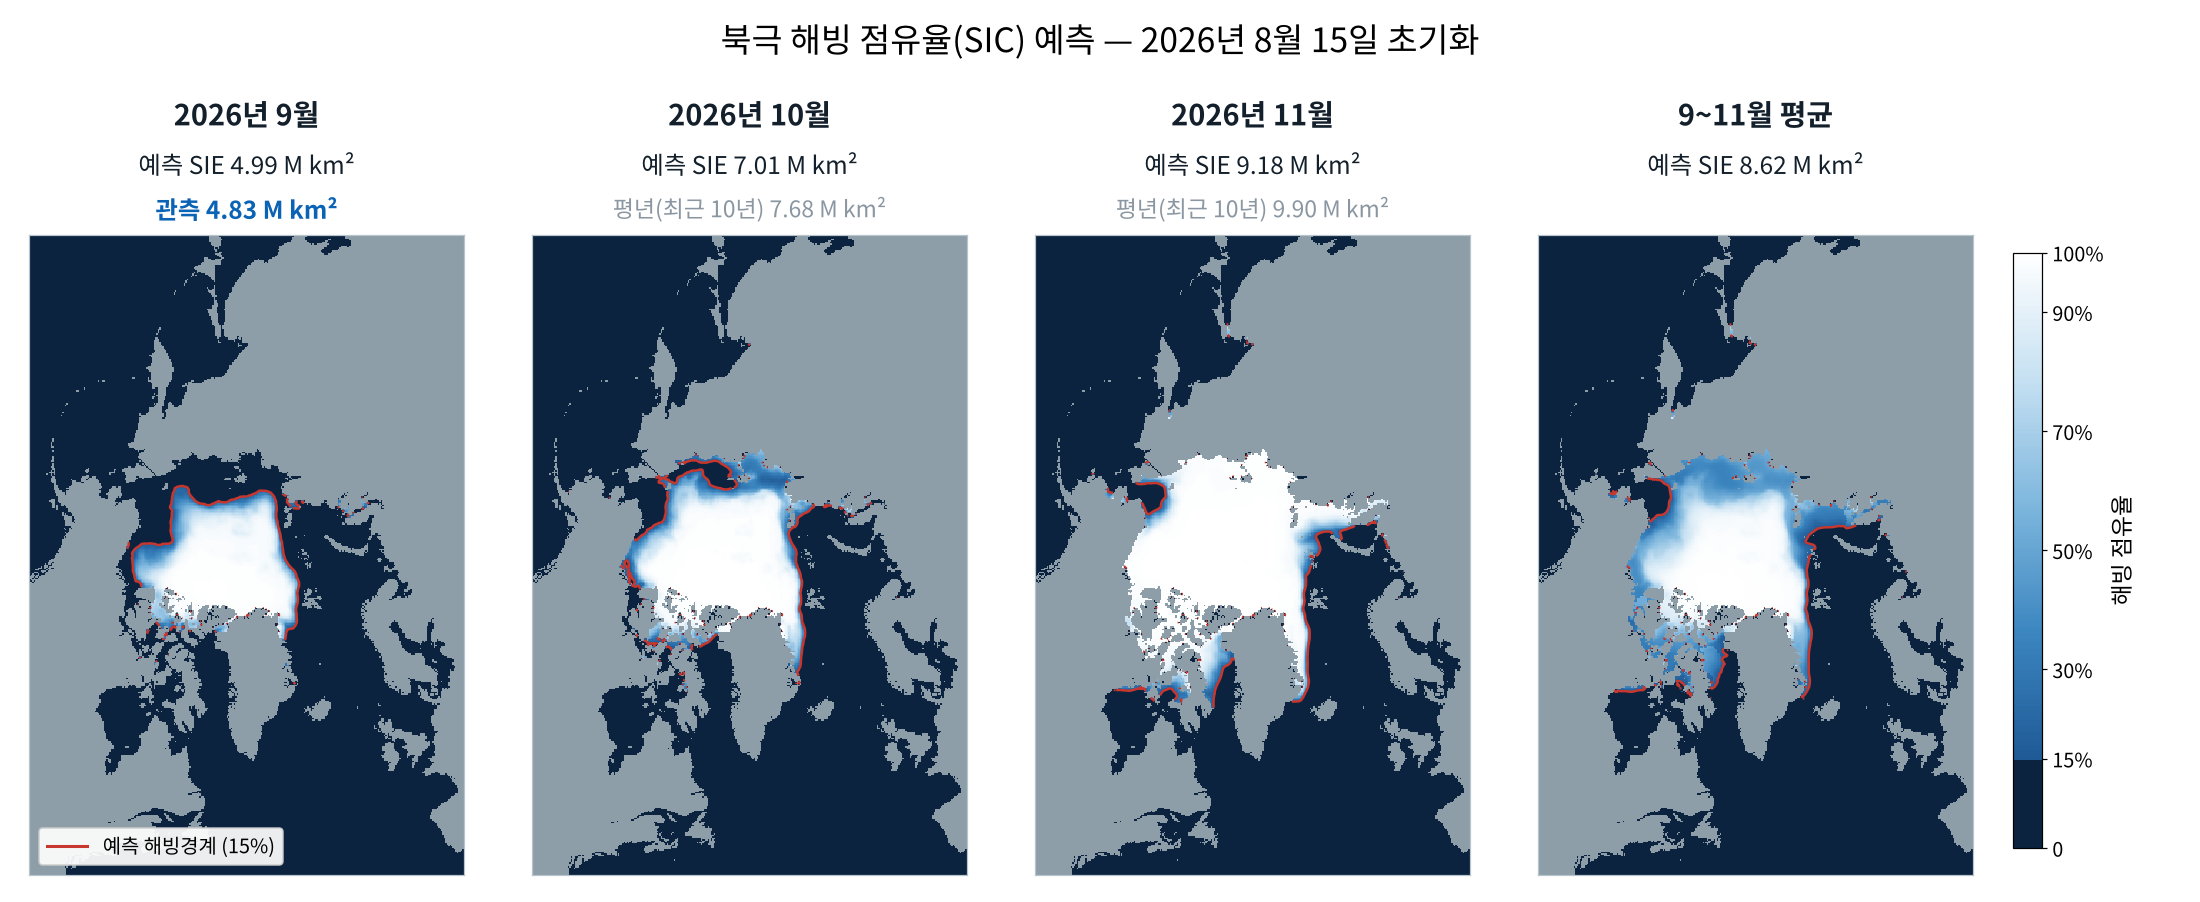
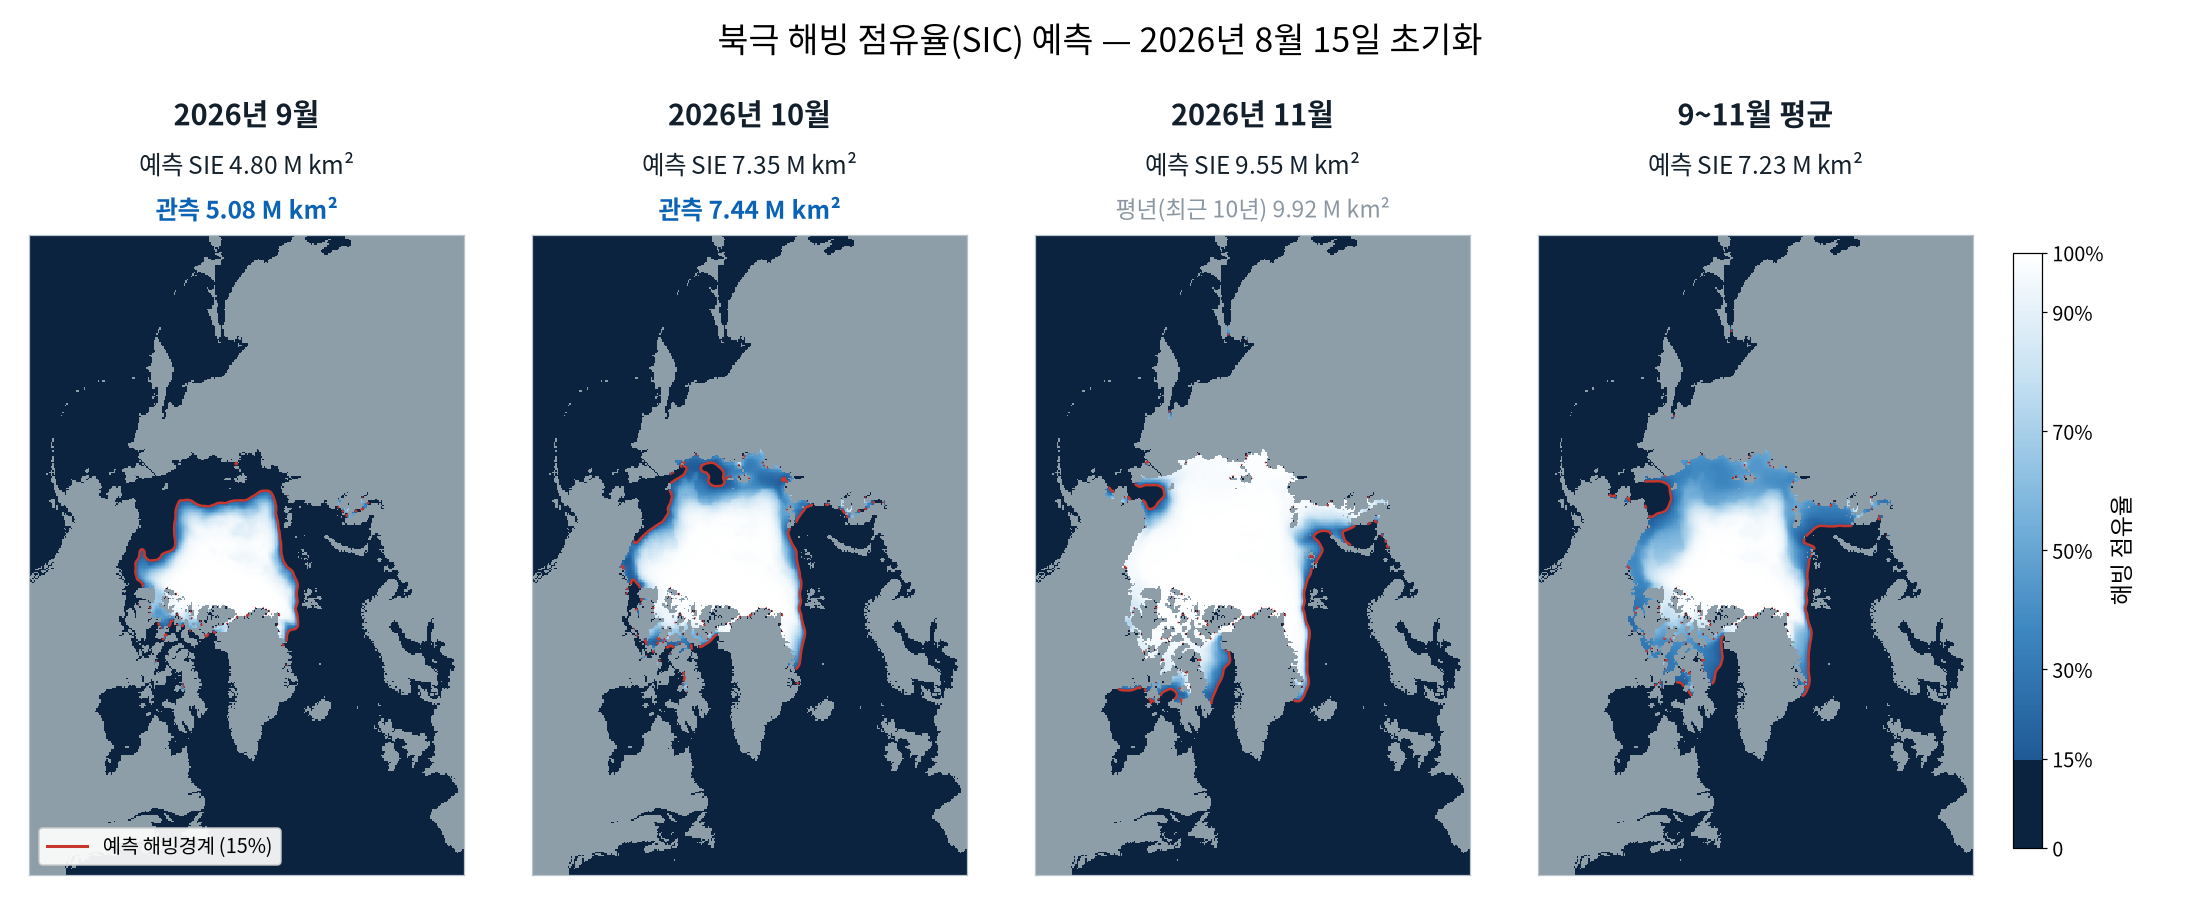
KSI 결과로 교체: 2026년 1–11월 발표 (11월 발표 추가)
- 예측을 KOPRI-PKNU 해빙 예측 시스템(KSI) 결과로 바꿈. 원본 폴더는 옆의
  ksi-sea-ice-forecasting/ (KSI_SIC_YYYYMM.nc, reference_sie.csv)
- 2026년 1–10월 발표는 같은 방법으로 나중에 다시 계산한 것(페이지에 표시),
  11월 발표(2026년 12월–2027년 2월)는 2026-11-25에 계산
- build_site.py: KSI_SIC_*.nc 를 읽고, SIE 는 파일 속성(실제 칸 면적)을 쓰며,
  다시 계산한 발표를 표시
- template.html: 방법 설명, SIE 설명, 다시 계산한 발표 안내 문구
- README: 매달 올리는 법과 SIE 정의
- 그림 글꼴 Noto Sans CJK KR

diff --git a/index.html b/index.html
@@ -68,7 +68,7 @@
       "alternateName": "Arctic sea ice concentration monthly forecast",
       "description": "북극 해빙 농도(SIC)를 NSIDC 극사영 북반구 25 km 격자에서 매달 예측한 결과입니다. 그 달 15일까지의 자료로 다음 세 달 각각의 월평균과 세 달 평균을 산출해 지도와 해빙면적 그래프로 공개합니다. 연구 산출물이며 공식 예보가 아닙니다.",
       "url": "https://arctic-seaice.github.io/",
-      "dateModified": "2026-10-27",
+      "dateModified": "2026-11-25",
       "inLanguage": "ko",
       "license": "https://creativecommons.org/licenses/by/4.0/",
       "isAccessibleForFree": true,
@@ -85,7 +85,7 @@
       "variableMeasured": [
         { "@type": "PropertyValue", "name": "해빙 농도 (sea ice concentration)", "unitText": "1" }
       ],
-      "measurementTechnique": "AI 앙상블 (AnchorNet · SimVP · 파운데이션 모델) 월별 해빙 농도 예측",
+      "measurementTechnique": "AI 앙상블 (ConvNeXt · MogaNet 각 5시드) + 감쇠 지속 통계 지도의 가중 결합, 분위 사상 보정 — 월별 해빙 농도 예측",
       "isBasedOn": [
         { "@type": "Dataset", "name": "NOAA/NSIDC Sea Ice Concentration CDR (G02202 v6)", "url": "https://nsidc.org/data/g02202" },
         { "@type": "Dataset", "name": "ECMWF ERA5 (Copernicus Climate Change Service)", "url": "https://cds.climate.copernicus.eu/" }
@@ -135,8 +135,8 @@
       </div>
     </div>
     <figure class="fig">
-      <img id="figimg" src="figs/SIC_202610.png?v=1792988043" alt="북극 해빙 농도 예측 지도">
-      <figcaption>빨간 선은 예측 해빙경계(해빙 농도 15%), SIE는 해빙 농도 15% 이상 격자의 면적입니다.
+      <img id="figimg" src="figs/SIC_202611.png?v=1795583137" alt="북극 해빙 농도 예측 지도">
+      <figcaption>빨간 선은 예측 해빙경계(해빙 농도 15%), SIE는 해빙 농도 15% 이상 격자의 실제 면적 합입니다.
         각 지도 위 셋째 줄은 <b class="obs">관측</b>(이미 관측된 달) 또는 <span class="clim">최근 10년 평년</span>(아직 관측 전인 달)의 면적입니다. 키보드 ← → 로도 넘길 수 있습니다.</figcaption>
     </figure>
 
@@ -151,7 +151,8 @@
         <span class="ck"><i class="ln dash"></i>최근 10년 평년</span>
       </div>
     </div>
-    <p class="note">연구 산출물이며, 안전이 걸린 판단의 근거로 쓰도록 만든 공식 예보가 아닙니다. 마지막 갱신 2026-10-27.</p>
+    <p class="note">2026년 1–10월 발표는 같은 방법으로 나중에 다시 계산한 것이고, 2026년 11월 발표부터 발표 시점에 만든 예보입니다.
+      연구 산출물이며, 안전이 걸린 판단의 근거로 쓰도록 만든 공식 예보가 아닙니다. 마지막 갱신 2026-11-25.</p>
   </div>
 </section>
 
@@ -179,7 +180,7 @@
   </div>
 </footer>
 <script>
-const D = {"issues":[{"origin":"2026-10","cutoff":"15","fig":"figs/SIC_202610.png?v=1792988043","targets":["2026-11","2026-12","2027-01"],"sie":[9.307,11.764,13.343]},{"origin":"2026-09","cutoff":"15","fig":"figs/SIC_202609.png?v=1792988043","targets":["2026-10","2026-11","2026-12"],"sie":[7.085,9.068,11.768]},{"origin":"2026-08","cutoff":"15","fig":"figs/SIC_202608.png?v=1792988043","targets":["2026-09","2026-10","2026-11"],"sie":[4.993,7.011,9.183]},{"origin":"2026-07","cutoff":"15","fig":"figs/SIC_202607.png?v=1792988043","targets":["2026-08","2026-09","2026-10"],"sie":[5.862,5.038,7.397]},{"origin":"2026-06","cutoff":"15","fig":"figs/SIC_202606.png?v=1792988043","targets":["2026-07","2026-08","2026-09"],"sie":[8.262,5.489,4.842]},{"origin":"2026-05","cutoff":"15","fig":"figs/SIC_202605.png?v=1792988043","targets":["2026-06","2026-07","2026-08"],"sie":[10.744,7.761,5.218]},{"origin":"2026-04","cutoff":"15","fig":"figs/SIC_202604.png?v=1792988043","targets":["2026-05","2026-06","2026-07"],"sie":[12.265,11.001,7.907]},{"origin":"2026-03","cutoff":"15","fig":"figs/SIC_202603.png?v=1792988043","targets":["2026-04","2026-05","2026-06"],"sie":[13.909,12.504,11.006]},{"origin":"2026-02","cutoff":"15","fig":"figs/SIC_202602.png?v=1792988043","targets":["2026-03","2026-04","2026-05"],"sie":[14.668,13.831,12.429]},{"origin":"2026-01","cutoff":"15","fig":"figs/SIC_202601.png?v=1792988043","targets":["2026-02","2026-03","2026-04"],"sie":[14.641,14.847,13.935]}],"ref":{"2026-01":{"obs":13.3225,"clim10":14.005},"2026-02":{"obs":14.3562,"clim10":14.9887},"2026-03":{"obs":14.4419,"clim10":15.2656},"2026-04":{"obs":13.6594,"clim10":14.205},"2026-05":{"obs":12.17,"clim10":12.7706},"2026-06":{"obs":10.6294,"clim10":11.515},"2026-07":{"obs":8.0919,"clim10":8.6731},"2026-08":{"obs":5.6963,"clim10":6.0006},"2026-09":{"obs":4.8256,"clim10":5.0131},"2026-10":{"obs":null,"clim10":7.6787},"2026-11":{"obs":null,"clim10":9.9006},"2026-12":{"obs":null,"clim10":12.45},"2027-01":{"obs":null,"clim10":13.9887}}};
+const D = {"issues":[{"origin":"2026-11","cutoff":"15","fig":"figs/SIC_202611.png?v=1795583137","targets":["2026-12","2027-01","2027-02"],"sie":[11.977,13.536,14.402],"retro":false},{"origin":"2026-10","cutoff":"15","fig":"figs/SIC_202610.png?v=1795582410","targets":["2026-11","2026-12","2027-01"],"sie":[9.684,12.063,13.53],"retro":true},{"origin":"2026-09","cutoff":"15","fig":"figs/SIC_202609.png?v=1795582186","targets":["2026-10","2026-11","2026-12"],"sie":[7.615,9.614,12.073],"retro":true},{"origin":"2026-08","cutoff":"15","fig":"figs/SIC_202608.png?v=1795581964","targets":["2026-09","2026-10","2026-11"],"sie":[4.802,7.348,9.55],"retro":true},{"origin":"2026-07","cutoff":"15","fig":"figs/SIC_202607.png?v=1795581743","targets":["2026-08","2026-09","2026-10"],"sie":[6.182,5.328,7.665],"retro":true},{"origin":"2026-06","cutoff":"15","fig":"figs/SIC_202606.png?v=1795581523","targets":["2026-07","2026-08","2026-09"],"sie":[8.521,6.209,5.323],"retro":true},{"origin":"2026-05","cutoff":"15","fig":"figs/SIC_202605.png?v=1795581305","targets":["2026-06","2026-07","2026-08"],"sie":[11.013,8.368,5.63],"retro":true},{"origin":"2026-04","cutoff":"15","fig":"figs/SIC_202604.png?v=1795581088","targets":["2026-05","2026-06","2026-07"],"sie":[12.444,11.105,8.259],"retro":true},{"origin":"2026-03","cutoff":"15","fig":"figs/SIC_202603.png?v=1795580872","targets":["2026-04","2026-05","2026-06"],"sie":[13.945,12.516,11.142],"retro":true},{"origin":"2026-02","cutoff":"15","fig":"figs/SIC_202602.png?v=1795580664","targets":["2026-03","2026-04","2026-05"],"sie":[14.559,13.89,12.623],"retro":true},{"origin":"2026-01","cutoff":"15","fig":"figs/SIC_202601.png?v=1795580457","targets":["2026-02","2026-03","2026-04"],"sie":[14.505,14.608,13.853],"retro":true}],"ref":{"2026-01":{"obs":13.4301,"clim10":13.8174},"2026-02":{"obs":14.3925,"clim10":14.5679},"2026-03":{"obs":14.481,"clim10":14.7882},"2026-04":{"obs":13.772,"clim10":13.9814},"2026-05":{"obs":12.3862,"clim10":12.7318},"2026-06":{"obs":10.8941,"clim10":11.107},"2026-07":{"obs":8.417,"clim10":8.5483},"2026-08":{"obs":6.0107,"clim10":5.7677},"2026-09":{"obs":5.0757,"clim10":4.8402},"2026-10":{"obs":7.4385,"clim10":7.1732},"2026-11":{"obs":null,"clim10":9.9212},"2026-12":{"obs":null,"clim10":12.3487},"2027-01":{"obs":null,"clim10":13.7827},"2027-02":{"obs":null,"clim10":14.5601}}};
 (function(){
   const I = D.issues, R = D.ref;              // I[0] 이 최신
   const sel = document.getElementById('sel'), img = document.getElementById('figimg');
@@ -193,7 +194,8 @@ const D = {"issues":[{"origin":"2026-10","cutoff":"15","fig":"figs/SIC_202610.pn
     sel.value = cur; img.src = it.fig; img.alt = lab(it.origin) + ' 발표 북극 해빙 농도 예측 지도';
     document.getElementById('ititle').textContent = lab(it.origin) + ' 발표' ;
     document.getElementById('isub').textContent =
-      `${lab(it.origin)} ${it.cutoff}일까지의 자료로 산출한 ${lab(it.targets[0])} ~ ${lab(it.targets[2])} 예측`;
+      `${lab(it.origin)} ${it.cutoff}일까지의 자료로 산출한 ${lab(it.targets[0])} ~ ${lab(it.targets[2])} 예측` +
+      (it.retro ? ' (그 달에 낸 예보가 아니라 나중에 같은 방법으로 다시 계산한 것)' : '');
     document.getElementById('prev').disabled = cur === I.length-1;   // ◀ = 과거
     document.getElementById('next').disabled = cur === 0;
     chart();

diff --git a/tools/template.html b/tools/template.html
@@ -85,7 +85,7 @@
       "variableMeasured": [
         { "@type": "PropertyValue", "name": "해빙 농도 (sea ice concentration)", "unitText": "1" }
       ],
-      "measurementTechnique": "AI 앙상블 (AnchorNet · SimVP · 파운데이션 모델) 월별 해빙 농도 예측",
+      "measurementTechnique": "AI 앙상블 (ConvNeXt · MogaNet 각 5시드) + 감쇠 지속 통계 지도의 가중 결합, 분위 사상 보정 — 월별 해빙 농도 예측",
       "isBasedOn": [
         { "@type": "Dataset", "name": "NOAA/NSIDC Sea Ice Concentration CDR (G02202 v6)", "url": "https://nsidc.org/data/g02202" },
         { "@type": "Dataset", "name": "ECMWF ERA5 (Copernicus Climate Change Service)", "url": "https://cds.climate.copernicus.eu/" }
@@ -136,7 +136,7 @@
     </div>
     <figure class="fig">
       <img id="figimg" src="{{LATEST_FIG}}" alt="북극 해빙 농도 예측 지도">
-      <figcaption>빨간 선은 예측 해빙경계(해빙 농도 15%), SIE는 해빙 농도 15% 이상 격자의 면적입니다.
+      <figcaption>빨간 선은 예측 해빙경계(해빙 농도 15%), SIE는 해빙 농도 15% 이상 격자의 실제 면적 합입니다.
         각 지도 위 셋째 줄은 <b class="obs">관측</b>(이미 관측된 달) 또는 <span class="clim">최근 10년 평년</span>(아직 관측 전인 달)의 면적입니다. 키보드 ← → 로도 넘길 수 있습니다.</figcaption>
     </figure>
 
@@ -151,7 +151,8 @@
         <span class="ck"><i class="ln dash"></i>최근 10년 평년</span>
       </div>
     </div>
-    <p class="note">연구 산출물이며, 안전이 걸린 판단의 근거로 쓰도록 만든 공식 예보가 아닙니다. 마지막 갱신 {{UPDATED}}.</p>
+    <p class="note">2026년 1–10월 발표는 같은 방법으로 나중에 다시 계산한 것이고, 2026년 11월 발표부터 발표 시점에 만든 예보입니다.
+      연구 산출물이며, 안전이 걸린 판단의 근거로 쓰도록 만든 공식 예보가 아닙니다. 마지막 갱신 {{UPDATED}}.</p>
   </div>
 </section>
 
@@ -193,7 +194,8 @@ const D = {{DATA}};
     sel.value = cur; img.src = it.fig; img.alt = lab(it.origin) + ' 발표 북극 해빙 농도 예측 지도';
     document.getElementById('ititle').textContent = lab(it.origin) + ' 발표' ;
     document.getElementById('isub').textContent =
-      `${lab(it.origin)} ${it.cutoff}일까지의 자료로 산출한 ${lab(it.targets[0])} ~ ${lab(it.targets[2])} 예측`;
+      `${lab(it.origin)} ${it.cutoff}일까지의 자료로 산출한 ${lab(it.targets[0])} ~ ${lab(it.targets[2])} 예측` +
+      (it.retro ? ' (그 달에 낸 예보가 아니라 나중에 같은 방법으로 다시 계산한 것)' : '');
     document.getElementById('prev').disabled = cur === I.length-1;   // ◀ = 과거
     document.getElementById('next').disabled = cur === 0;
     chart();

diff --git a/tools/build_site.py b/tools/build_site.py
@@ -1,15 +1,16 @@
 #!/usr/bin/env python3
 """북극 해빙 예측 nc → arctic-seaice.github.io 변환기.
 
-sea-ice-forecasting 폴더에 PKNU_AI_SIC_YYYYMM.nc 를 넣고 이 스크립트를 한 번 돌리면
+ksi-sea-ice-forecasting 폴더에 KSI_SIC_YYYYMM.nc 를 넣고 이 스크립트를 한 번 돌리면
+(파일은 예보 시스템 저장소의 scripts/site_ksi_products.py 가 만든다)
   1) 발표마다 4패널 그림(다음 3개월 + 3개월 평균)을 figs/SIC_YYYYMM.png 로 만들고
   2) index.html(발표를 넘겨 보는 그림 + 해빙면적 예측 vs 관측 그래프)과 sitemap.xml 을 다시 쓴다.
 
 이미 만든 그림은 nc 가 바뀌지 않았으면 건너뛴다(--force 로 전부 다시).
 
 사용법 (사이트 저장소 폴더에서):
-    python3 tools/build_site.py                       # 기본: ../sea-ice-forecasting
-    python3 tools/build_site.py --src /경로/sea-ice-forecasting
+    python3 tools/build_site.py                       # 기본: ../ksi-sea-ice-forecasting
+    python3 tools/build_site.py --src /경로/ksi-sea-ice-forecasting
 필요 패키지: numpy, xarray, netCDF4, matplotlib, pillow
 """
 from __future__ import annotations
@@ -35,7 +36,7 @@ SITE = Path(__file__).resolve().parent.parent
 TOOLS = SITE / "tools"
 FIGS = SITE / "figs"
 URL = "https://arctic-seaice.github.io/"
-NC_RE = re.compile(r"PKNU_AI_SIC_(\d{4})(\d{2})\.nc$")
+NC_RE = re.compile(r"KSI_SIC_(\d{4})(\d{2})\.nc$")
 
 CELL_KM2 = 25.0 * 25.0
 THRESH = 0.15
@@ -81,6 +82,7 @@ def north_up(a: np.ndarray, y: np.ndarray) -> np.ndarray:
 
 
 def sie(field: np.ndarray) -> float:
+    """nc 에 SIE 속성이 없을 때만 쓰는 대체값: 15% 이상 칸 수 x 공칭 625 km²."""
     return float((np.nan_to_num(field) >= THRESH).sum() * CELL_KM2 / 1e6)
 
 
@@ -94,9 +96,15 @@ def load(nc: Path) -> dict:
     cutoff = str(attrs.get("sic_cutoff_days", "1~15")).split("~")[-1].strip() or "15"
     hist = str(attrs.get("history", ""))[:10]
     targets = [add_month(oy, om, k) for k in (1, 2, 3)]
+    # SIE: KSI 파일의 속성(고정 바다, 실제 칸 면적, 3M = 세 달 SIE 평균)을 그대로 쓴다. 없으면 공칭 면적으로 잰다
+    s = json.loads(attrs["sie_10e6km2"]) if "sie_10e6km2" in attrs else None
+    sies = [s[f"L{k}"] for k in (1, 2, 3)] if s else [sie(sic[i]) for i in range(3)]
+    sie3 = s["3M"] if s else sie(sic3)
+    # 회고: 그 달에 낸 예보가 아니라 나중에 같은 방법으로 다시 계산한 것 (production 속성)
+    retro = str(attrs.get("production", "")).startswith(("회고", "나중에"))
     return dict(origin=(oy, om), cutoff=cutoff, produced=hist, sic=sic, sic3=sic3,
-                targets=targets, model=attrs.get("model_version", ""),
-                sie=[sie(sic[i]) for i in range(3)], sie3=sie(sic3))
+                targets=targets, model=attrs.get("model_version", ""), retro=retro,
+                sie=sies, sie3=sie3)
 
 
 def write_text(path: Path, text: str) -> None:
@@ -176,6 +184,7 @@ def page(items: list[dict], ref: dict) -> str:
             "fig": f"figs/{it['fig']}{it['v']}",
             "targets": [f"{y}-{m:02d}" for y, m in it["targets"]],
             "sie": [round(v, 3) for v in it["sie"]],
+            "retro": it["retro"],
         } for it in items],
         "ref": {k: v for k, v in sorted(ref.items())},
     }
@@ -200,12 +209,12 @@ def sitemap(day: str) -> str:
 # ---------------------------------------------------------------- 실행
 def main() -> None:
     ap = argparse.ArgumentParser(description=__doc__, formatter_class=argparse.RawDescriptionHelpFormatter)
-    ap.add_argument("--src", type=Path, default=SITE.parent / "sea-ice-forecasting",
-                    help="예측 nc 가 들어 있는 폴더 (기본: 사이트 옆 sea-ice-forecasting)")
+    ap.add_argument("--src", type=Path, default=SITE.parent / "ksi-sea-ice-forecasting",
+                    help="예측 nc 가 들어 있는 폴더 (기본: 사이트 옆 ksi-sea-ice-forecasting)")
     ap.add_argument("--force", action="store_true", help="그림을 모두 다시 그린다")
     a = ap.parse_args()
 
-    ncs = sorted((p for p in a.src.glob("PKNU_AI_SIC_*.nc") if NC_RE.search(p.name)), reverse=True)
+    ncs = sorted((p for p in a.src.glob("KSI_SIC_*.nc") if NC_RE.search(p.name)), reverse=True)
     if not ncs:
         raise SystemExit(f"nc 파일이 없습니다: {a.src}")
     land = np.array(Image.open(TOOLS / "land_mask.png")) > 0

diff --git a/README.md b/README.md
@@ -1,12 +1,14 @@
 # 북극 해빙 예보 — arctic-seaice.github.io
 
 다음 3개월의 북극 해빙 농도를 매달 예측해 **발표별 지도 그림(넘겨 보기) + 해빙면적 예측 vs 관측 그래프**로 공개하는 정적 사이트다.
+예측은 KOPRI-PKNU 해빙 예측 시스템(KSI)의 결과다(2026-11-25부터; 그 전의 그림은 git 기록에 있다).
 국립부경대학교 지능형 공간데이터과학 연구실(iGDSL, https://igdsl.github.io/).
 연구 산출물이며, 안전이 걸린 판단의 근거로 쓰도록 만든 공식 예보가 아니다.
 
 ## 매달 올리는 법
 
-1. 예측 결과 `PKNU_AI_SIC_YYYYMM.nc`(와 갱신된 `reference_sie.csv`)를 옆 폴더 `../sea-ice-forecasting/` 에 넣는다.
+1. 예측 결과 `KSI_SIC_YYYYMM.nc`(와 갱신된 `reference_sie.csv`)를 옆 폴더 `../ksi-sea-ice-forecasting/` 에 넣는다.
+   이 파일들은 예보 시스템 저장소(kopri-sea-ice-forecasting)의 `scripts/site_ksi_products.py` 가 만든다.
 2. 이 폴더에서 변환기를 돌린다.
    ```bash
    python3 tools/build_site.py          # 원본 폴더가 다른 곳이면 --src 경로
@@ -30,7 +32,9 @@
 | `index.html`, `sitemap.xml` | 자동 생성 (발표 목록·해빙면적 값이 JSON 으로 들어 있다) |
 
 그림: 다음 3개월 각각과 3개월 평균의 해빙 농도, 빨간 선은 예측 해빙경계(15%).
-패널 제목의 SIE 는 15% 이상 격자 면적(25 km × 25 km 격자 수)이고, 괄호는 `reference_sie.csv` 의 관측값(있으면) 또는 10년 평년값이다.
+패널 제목의 SIE 는 nc 속성 `sie_10e6km2`(고정 바다에서 15% 이상 칸의 실제 면적 합, 3개월 평균 칸은 세 달 SIE 의 평균)이고,
+셋째 줄은 `reference_sie.csv` 의 관측값(있으면) 또는 직전 10년 평년값이다(같은 면적 정의, 관측은 14.9% 이상).
+nc 의 `production` 속성이 '회고' 또는 '나중에'로 시작하는 발표는 화면에 '나중에 같은 방법으로 다시 계산한 것'으로 표시된다.
 
 ## 검색 노출
 
